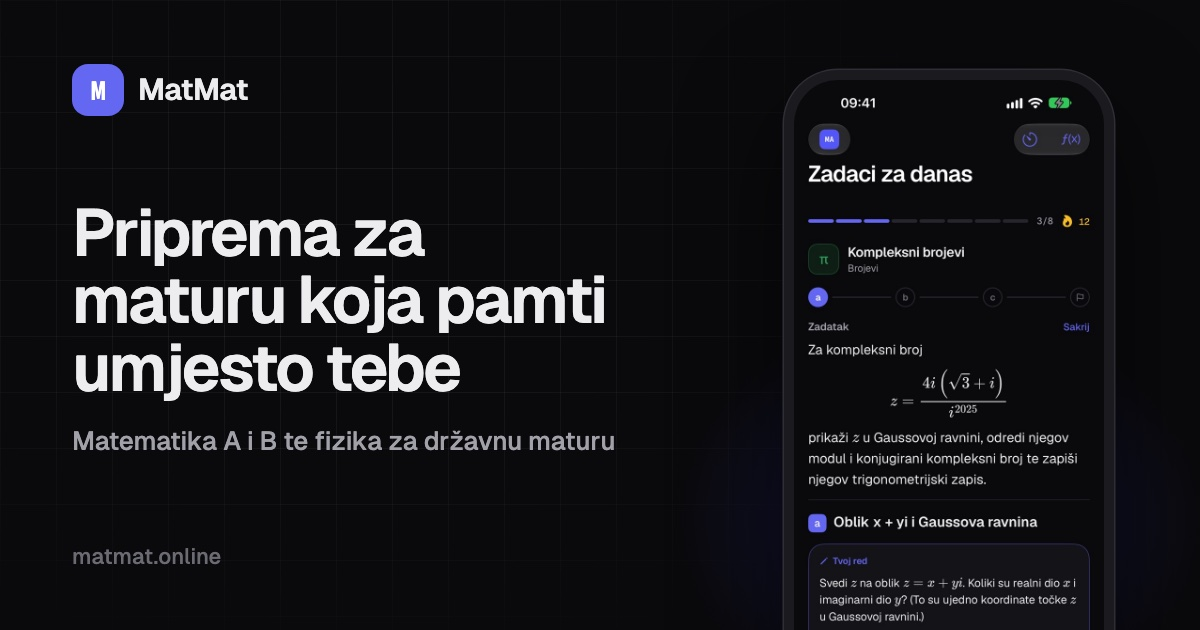
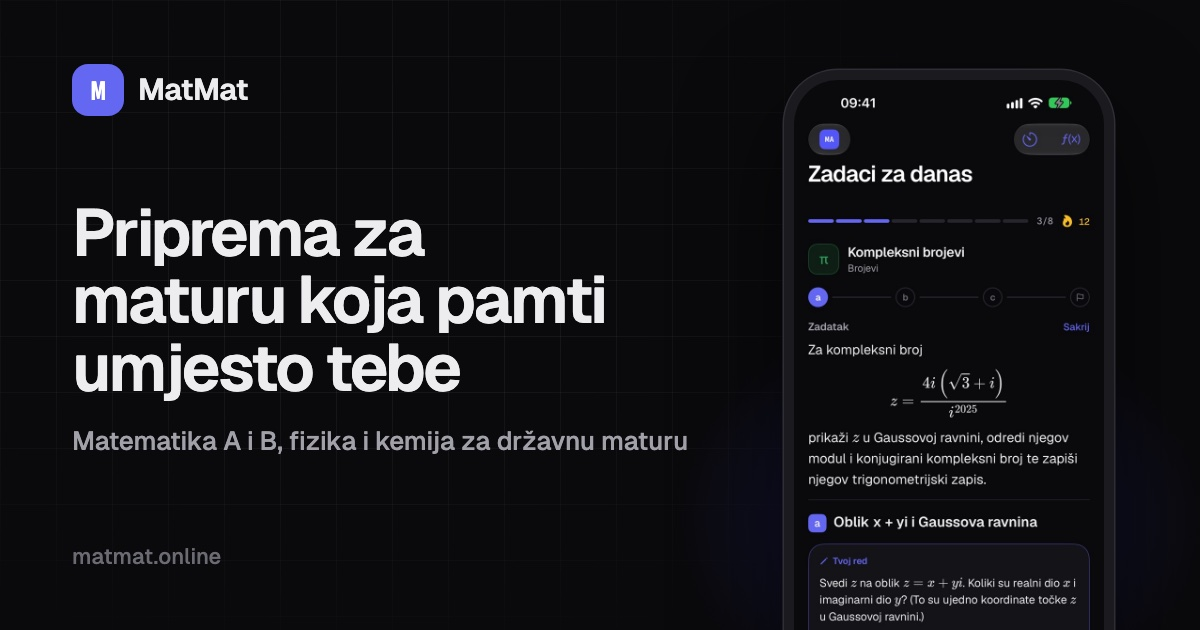
Link preview image names kemija too (#87)
The home preview said "Matematika A i B te fizika"; it's redrawn with
kemija, and its URL gets ?v=2 so apps that cached the old one fetch it again.

Changed region(s): [[0.2158, 0.6635, 0.5858, 0.7238]]

diff --git a/src/lib/config/seo.js b/src/lib/config/seo.js
@@ -6,10 +6,10 @@ import { APP_STORE_URL } from "$lib/config/apps";
 // `title` is the browser tab and the Google result; `ogTitle` is the bold line
 // of a shared link, where the brand name already shows as og:site_name.
 // Images are 1200×630 JPEGs under 300 KB (WhatsApp skips bigger ones), drawn by
-// scripts/og/render.sh.
+// scripts/og/render.sh. When one is redrawn, bump its ?v= so apps that cached the old image fetch it again.
 export const SITE = "https://matmat.online";
 
-const HOME_IMAGE = { url: "/og/matmat.jpg", alt: "MatMat: priprema za maturu koja pamti umjesto tebe, uz zaslon Zadaci za danas iz aplikacije" };
+const HOME_IMAGE = { url: "/og/matmat.jpg?v=2", alt: "MatMat: priprema za maturu koja pamti umjesto tebe, uz zaslon Zadaci za danas iz aplikacije" };
 
 export const PAGES = {
   "/": {

diff --git a/scripts/og/og.html b/scripts/og/og.html
@@ -54,7 +54,7 @@
     <div class="text">
       <div class="brand"><span class="mark">M</span>MatMat</div>
       <h1>Priprema za maturu koja pamti umjesto tebe</h1>
-      <p class="sub">Matematika A i B te fizika za državnu maturu</p>
+      <p class="sub">Matematika A i B, fizika i kemija za državnu maturu</p>
       <p class="url">matmat.online</p>
     </div>
     <div class="phone"><img src="../../static/images/app/01-zadaci.jpg" alt="" /></div>
